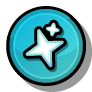
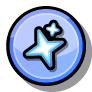
supporter + new helper badges :)

diff --git a/src/APIs/GauntletManagerCache.cpp b/src/APIs/GauntletManagerCache.cpp
@@ -74,14 +74,50 @@ void GauntletManagerCache::fetchHelpers() {
     );
 }
 
+void GauntletManagerCache::fetchSupporters() {
+    if (m_supporterRequest.isPending()) return;
+
+    m_supporterRequest.spawn(
+        GauntletManagerAPI::get()->fetchSupporters(),
+        [this](web::WebResponse res) {
+            if (res.ok()) {
+                std::unordered_set<int> ids;
+                auto json = res.json().unwrapOr(matjson::Value::object());
+                if (json.contains("supporters") && json["supporters"].isArray()) {
+                    for (auto const& row : json["supporters"]) {
+                        if (auto id = row["account_id"].asInt(); id.isOk()) {
+                            ids.insert(id.unwrap());
+                        }
+                    }
+                }
+                m_supporterIDs = std::move(ids);
+                m_hasFetchedSupporters = true;
+            } else {
+                log::warn(
+                    "[GauntletManagerCache] Failed to fetch supporter list (code {}): {}",
+                    res.code(), res.string().unwrapOr("<no body>")
+                );
+            }
+
+            auto waiting = std::move(m_waitingSupporters);
+            m_waitingSupporters.clear();
+            for (auto& [accountID, cb] : waiting) {
+                cb(m_supporterIDs.contains(accountID));
+            }
+        }
+    );
+}
+
 void GauntletManagerCache::warm() {
     if (!m_hasFetched) fetch();
     if (!m_hasFetchedHelpers) fetchHelpers();
+    if (!m_hasFetchedSupporters) fetchSupporters();
 }
 
 void GauntletManagerCache::refresh() {
     fetch();
     fetchHelpers();
+    fetchSupporters();
 }
 
 void GauntletManagerCache::isManager(int accountID, std::function<void(bool)> callback) {
@@ -102,4 +138,14 @@ void GauntletManagerCache::isHelper(int accountID, std::function<void(bool)> cal
 
     m_waitingHelpers.push_back({accountID, std::move(callback)});
     fetchHelpers();
+}
+
+void GauntletManagerCache::isSupporter(int accountID, std::function<void(bool)> callback) {
+    if (m_hasFetchedSupporters) {
+        callback(m_supporterIDs.contains(accountID));
+        return;
+    }
+
+    m_waitingSupporters.push_back({accountID, std::move(callback)});
+    fetchSupporters();
 }

diff --git a/src/Hooks/ProfilePage/ProfilePage.cpp b/src/Hooks/ProfilePage/ProfilePage.cpp
@@ -62,7 +62,30 @@ $execute {
         });
     });
 
+    // Supporters
+    registerBadge(
+        "supporter"_spr,
+        "Gauntlet Supporter",
+        "This user supported <cc>Better Gauntlets</c> server by donating to "
+        "the developer's <co>Ko-fi</c> or (if you are in the Russian region) <cy>Boosty</c>. "
+        "If you would like this badge, consider <cd>donating</c> to the developer to keep <cg>server costs</c> steady!",
+        [] (const Badge& badge) {
+            if (badge.modStatus == ModStatus::Regular) showBadge(badge, CCSprite::createWithSpriteFrameName("modBadge_01_001.png"));
+        }
+    );
+
+    setProfileCallback(
+        "supporter"_spr,
+        [] (const Badge& badge) {
+        GauntletManagerCache::get()->isSupporter(badge.user->m_accountID, [badge](bool isSupporter) {
+            if (!isSupporter) return;
+            if (badge.location == Location::Profile || badge.location == Location::Comment) showBadge(badge, CCSprite::createWithSpriteFrameName("GR_badgeSupporter_001.png"_spr));
+            if (badge.location == Location::InfoPopup) showBadge(badge, CCSprite::createWithSpriteFrameName("GR_badgeSupporter_xlarge_001.png"_spr));
+        });
+    });
+
     // Comment colors
     setCommentColor("manager"_spr, ccc3(255, 185, 225));
     setCommentColor("helper"_spr, ccc3(150, 210, 225));
+    setCommentColor("supporter"_spr, ccc3(255, 210, 130));
 }

diff --git a/src/APIs/GauntletManagerCache.hpp b/src/APIs/GauntletManagerCache.hpp
@@ -15,11 +15,13 @@ public:
 
     void isManager(int accountID, std::function<void(bool)> callback);
     void isHelper(int accountID, std::function<void(bool)> callback);
+    void isSupporter(int accountID, std::function<void(bool)> callback);
 
 private:
     GauntletManagerCache() = default;
     void fetch();
     void fetchHelpers();
+    void fetchSupporters();
 
     std::unordered_set<int> m_managerIDs;
     bool m_hasFetched = false;
@@ -30,4 +32,9 @@ private:
     bool m_hasFetchedHelpers = false;
     std::vector<std::pair<int, std::function<void(bool)>>> m_waitingHelpers;
     async::TaskHolder<web::WebResponse> m_helperRequest;
+
+    std::unordered_set<int> m_supporterIDs;
+    bool m_hasFetchedSupporters = false;
+    std::vector<std::pair<int, std::function<void(bool)>>> m_waitingSupporters;
+    async::TaskHolder<web::WebResponse> m_supporterRequest;
 };

diff --git a/src/APIs/GauntletManagerAPI.cpp b/src/APIs/GauntletManagerAPI.cpp
@@ -133,3 +133,7 @@ web::WebFuture GauntletManagerAPI::fetchManagers() {
 web::WebFuture GauntletManagerAPI::fetchHelpers() {
     return web::WebRequest().get(baseURL() + "/helpers");
 }
+
+web::WebFuture GauntletManagerAPI::fetchSupporters() {
+    return web::WebRequest().get(baseURL() + "/supporters");
+}

diff --git a/src/APIs/GauntletManagerAPI.hpp b/src/APIs/GauntletManagerAPI.hpp
@@ -50,6 +50,7 @@ public:
     web::WebFuture uploadIcon(std::filesystem::path const& path);
     web::WebFuture fetchManagers();
     web::WebFuture fetchHelpers();
+    web::WebFuture fetchSupporters();
 
     bool isLoggedIn() const;
     void setToken(std::string const& token);

diff --git a/changelog.md b/changelog.md
@@ -4,23 +4,23 @@
     - Finally we no longer need to rely on RobTop to add new Gauntlets, as Better Gauntlets' **Gauntlet Managers** can now create official-quality *custom Gauntlets* with ease! These new Gauntlets can be mixed in gameplay type to create a unique Gauntlet experience!
     - To celebrate the release of Better Gauntlets v2.0.0 and the capabilities for new Gauntlets, the **Stellar** and **Lunar** Gauntlets are now available to play! Select the star next to the layer title ("The Lost Gauntlets") to see them!
 - <c-c4ffc4><cg>**Added**</c> Slider navigation to the Gauntlets!</c>
-    - All gauntlets now load on one page instead of three per-page, and this page is able to scroll horizontally. Use either dragging or the scroll bar at the bottom of the screen to navigate the Gauntlets.
+    - All gauntlets now load on one scrollable page instead of three per-page. Use either dragging or the scroll bar at the bottom of the screen to navigate the Gauntlets.
 - <c-c4ffc4><cg>**Added**</c> a new collectable, "Crystals"!</c>
     - A new form of collectable granted by completing The Forgotten Gauntlets' levels.
-- <c-c4ffc4><cg>**Added**</c> a new collectable, "Gauntlet Coins"!</c>
+- <c-c4ffc4><cg>**Added**</c> a new collectable, "(Gauntlet) Coins"!</c>
     - A new form of collectable granted by completing The Forgotten Gauntlets.
 - <c-c4ffc4><cg>**Added**</c> Global Leaderboards!</c>
-    - Check your Crystal and Gauntlet Coin count and compare them to other Better Gauntlets players around the world!
+    - Check your Crystal and Coin count and compare them to other Better Gauntlets players around the world!
 - <c-c4ffc4><cg>**Added**</c> Account Sync!
     - Sync your Forgotten Gauntlet collectable stats cross-client *without* needing to save/load your game data! Use the "Sync" button in the Global Leaderboards to sync your account to Better Gauntlets.
 - <c-c4ffc4><cg>**Added**</c> Profile Badges!</c>
-    - Using the Badgified API, badges can now be set on managers and helpers' profiles to indicate status.
+    - Using the Badgified API, badges can now be set on managers and helpers' profiles to indicate managerial status.
 - <c-ffffc4><cy>**Updated**</c>: `GauntletSelectLayer` now uses the `BetterGauntletSelectLayer` class!</c>
 - <c-ffffc4><cy>**Updated**</c>: `GauntletLayer` now uses the `BetterGauntletLayer` class!</c>
     - With these class changes, Better Gauntlets no longer relies on RobTop's vanilla Gauntlet layers, and can be easily updated when a new version of Geode and/or Geometry Dash releases!
 - <c-ffffc4><cy>**Updated**</c> Gauntlet Info to be paged.</c>
-    - Difference between "The Lost Gauntlets" and "The Forgotten Gauntlets" info will be separated by pages.
-- <c-ffffc4><cy>**Updated**</c> Reload button.</c>
+    - Information between "The Lost Gauntlets" and "The Forgotten Gauntlets" will be separated by pages as to not stir confusion.
+- <c-ffffc4><cy>**Updated**</c> Gauntlet reload button.</c>
     - The reload button now affects the visible Gauntlet list as to not cause rate limiting on RobTop's servers.
 - <c-ffffc4><cy>**Updated**</c> "The Lost Gauntlets" title sprite.</c>
 - <c-ffffc4><cy>**Updated**</c> GauntletNode completion visuals.</c>
@@ -35,8 +35,9 @@
 - <c-ffc4c4><cr>**Removed**</c> Rescale Loading Circle setting.</c>
 
 ## Known Issues:
-- The new Gauntlets added by Better Gauntlets may not show up all the time, this is due to rate limiting. If you would like to support this mod and help fund the server's upkeep, please consider donating to my Kofi or Boosty!
+- The new Gauntlet icons added by Better Gauntlets may not show up all the time, this is due to rate limiting and personal internet speeds. If you would like to support this mod and help fund the server's upkeep, please consider donating to my Kofi or Boosty!
 - GDUtils' "New Gauntlet Design" setting **does not work** with this update, and that is intentional. Measures have been taken to make sure the setting does not apply due to the modifications made to `GauntletNode`. Does this count as an incompatability? Maybe. Do I care? No :P
+- New or existing mods that hook either `GauntletSelectLayer` and/or `GauntletLayer` must now hook to `BetterGauntletSelectLayer` and `BetterGauntletLayer` for their mods' changes to be reflected in-game.
 
 <c-33333b>*The Gauntlet Keeper grows tired of waiting.*</c>
 
@@ -136,12 +137,6 @@
     - `Fire, Poison, Demon, Death, Christmas`
 - <c-ffc4c4><cr>**Removed**</c> the Gauntlet Level Vault __dependency__. It it still recommended you install, though!</c>
 - <c-ffc4c4><cr>**Removed**</c> the Custom Keybinds dependency for iOS as it's not available yet.</c>
-
-
----
-
-## <c-ffffff>v1.4.2
-- April Fools update :)</c>
 
 ---
 
